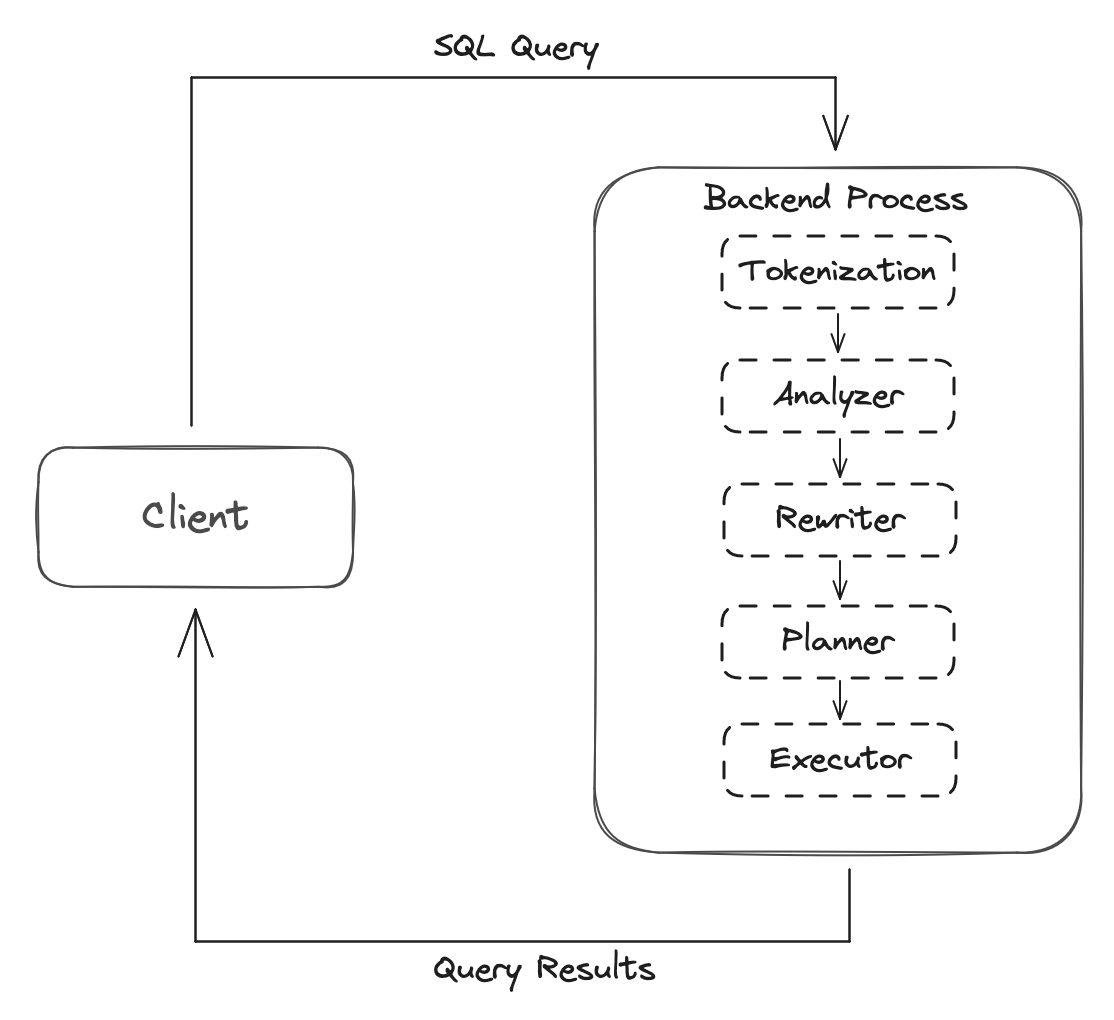
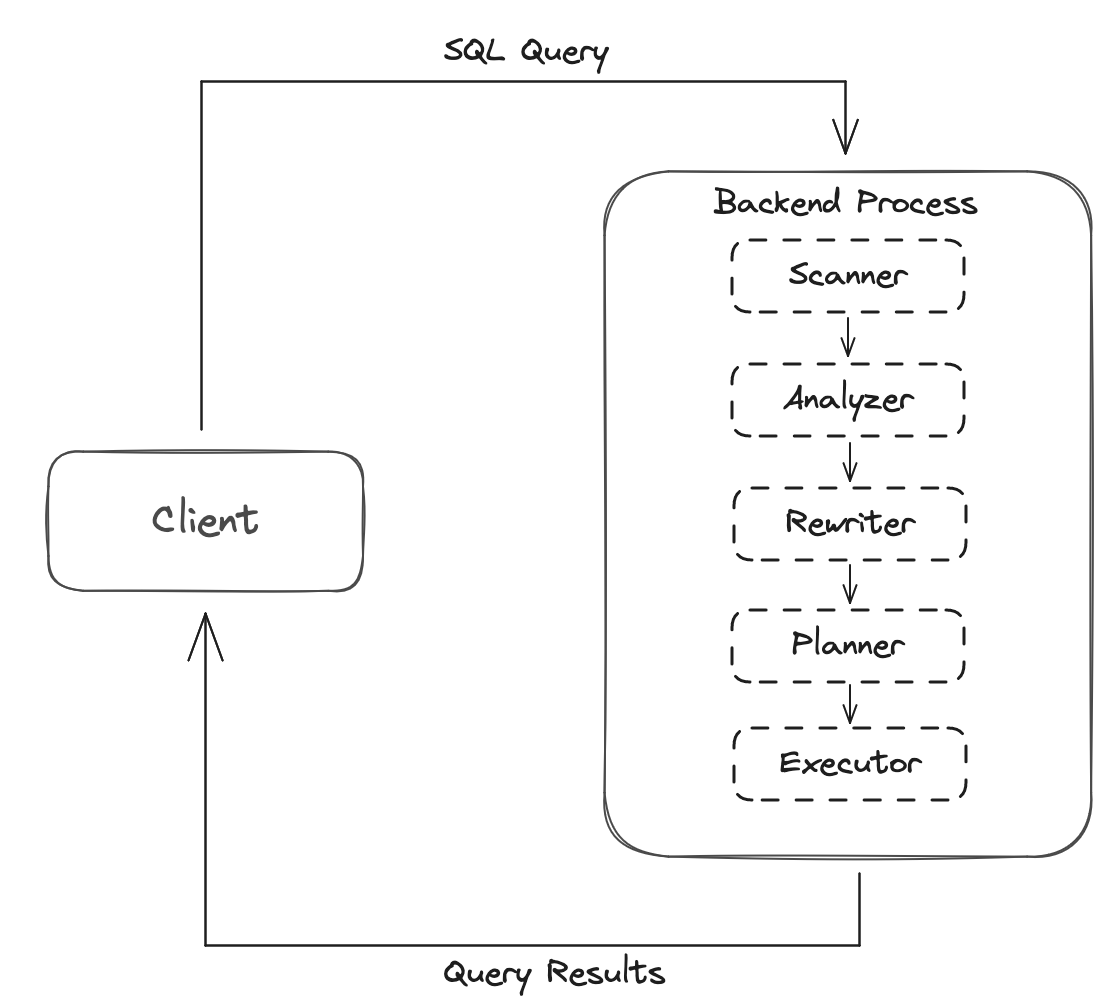
improve query lifecycle diagram

diff --git a/docs/4_query_parser.md b/docs/4_query_parser.md
@@ -6,13 +6,13 @@ The [Query Parser](https://www.postgresql.org/docs/current/parser-stage.html) is
   <img src="../image/query_lifecycle.png" width="500" />
 </p>
 
-The query parser will first perform lexical analysis, also known as tokenization, where it breaks down the input SQL query into a sequence of tokens such as keywords, identifiers, literals, and operators. You can find the scanner implementing in the [scan.l](https://github.com/postgres/postgres/blob/master/src/backend/parser/scan.l) file.
+The query parser will first perform lexical analysis, also known as tokenization, where it breaks down the input SQL query into a sequence of tokens such as keywords, identifiers, literals, and operators. You can find the scanner implementation in the [scan.l](https://github.com/postgres/postgres/blob/master/src/backend/parser/scan.l) file.
 
 Next, the parser performs syntax analysis, also known as parsing, where it checks the sequence of tokens against the rules of the SQL grammar defined in [gram.y](https://github.com/postgres/postgres/blob/master/src/backend/parser/gram.y) to ensure that the query is syntactically correct. If the query contains any syntax errors, the parser will report them to the user.
 
 After the query is parsed, the parser performs semantic analysis, where it checks the query for semantic errors such as referencing non-existent tables or columns, ambiguous column references, and type mismatches. The parser also resolves any aliases or qualified names used in the query.
 
-Once the query has been successfully parsed and analyzed, the parser generates an abstract syntax tree (AST) known as the query tree or parse tree. This query tree is a hierarchical structure that represents the logical structure of the query and is used by the query planner and executor to generate an execution plan.
+Once the query has been successfully parsed and analyzed, the parser generates an abstract syntax tree (AST) known as the query tree or parse tree. This parse tree is a hierarchical structure that represents the logical structure of the query and is used by the query planner to generate an execution plan.
 
 <p align="center">
   <img src="../image/parse_tree.png" width="750" />
